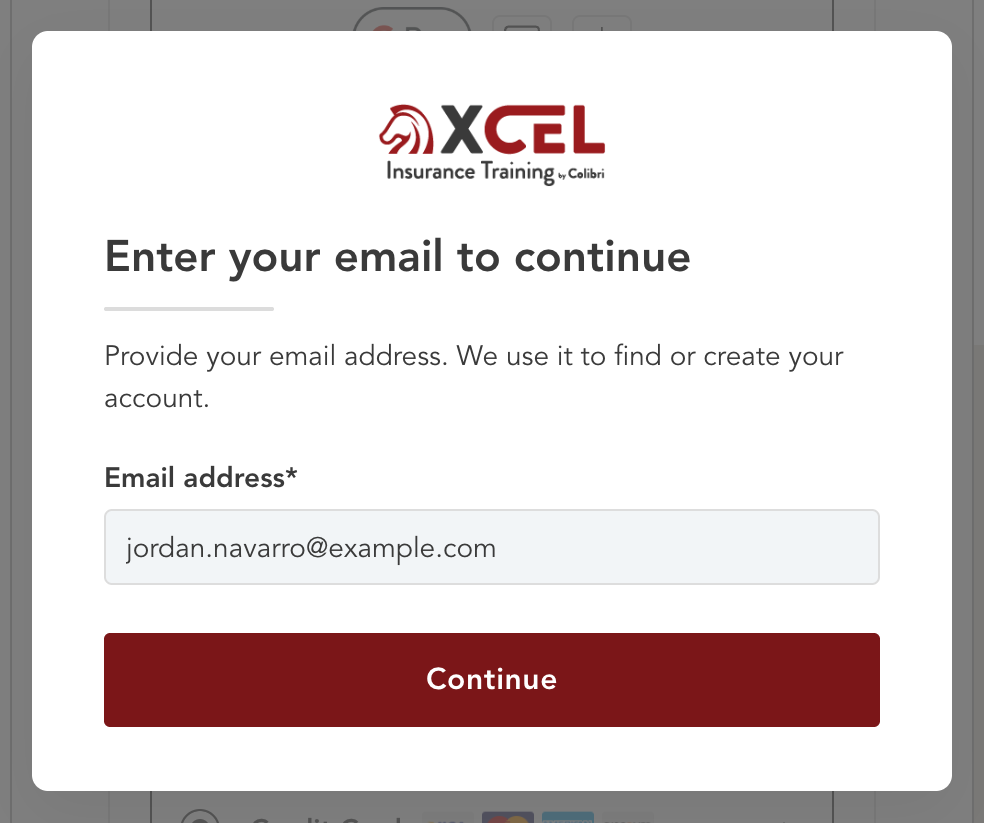
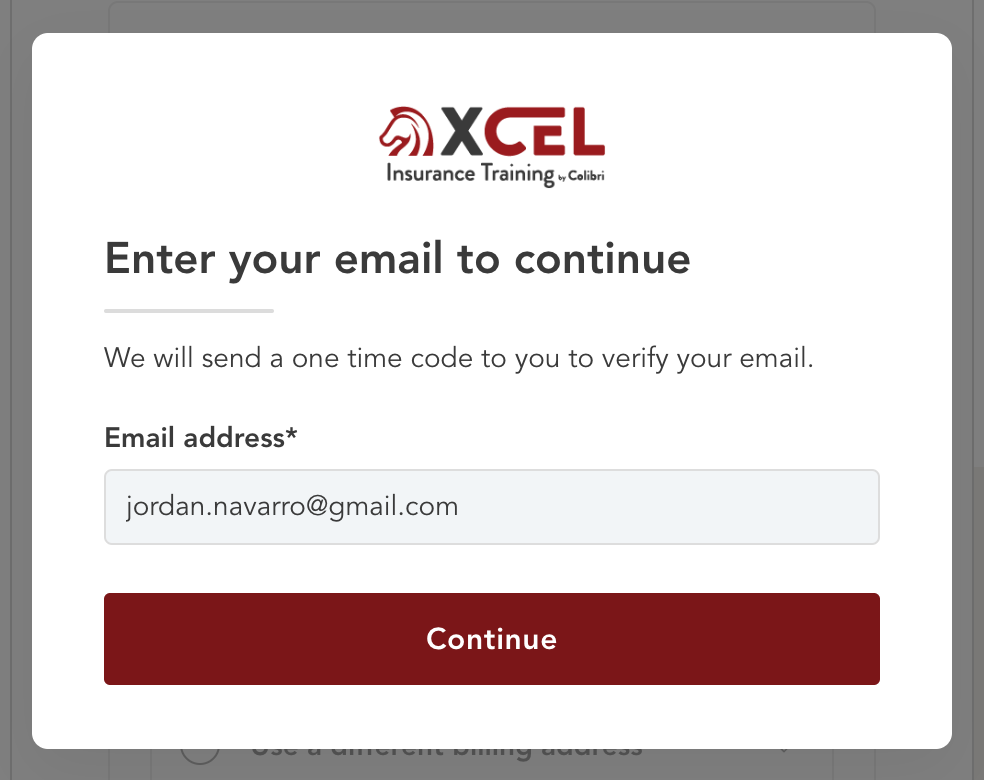
feat(invite-v3): email step before the code; Direct Email log-in shows the address locked
Without an Atlas account, Direct Email no longer sends the code straight
away: Enter your email to continue comes first, filled with the invited
address, and the no-Atlas flows' line reads "We will send a one time code
to you to verify your email." With Atlas, Log in to continue shows the
address in a locked field and says "Welcome back, Jordan! Sign in to
finish checking out." Checkout Modals handoff updated with the two new
states, re-shot pictures and an open question on the email step's copy.

diff --git a/src/data/handoffs/xcel-invite-v3-checkout-modals.ts b/src/data/handoffs/xcel-invite-v3-checkout-modals.ts
@@ -24,7 +24,7 @@ const feature: PrototypeFeature = {
   devStatus: 'not-ready',
   surface: 'invite',
   owner: 'Afsana',
-  lastUpdated: '2026-11-12T15:31:55Z',
+  lastUpdated: '2026-11-13T13:48:15Z',
   accent: 'gold',
   icon: 'flag',
   brands: ['xcel'],
@@ -45,8 +45,8 @@ const feature: PrototypeFeature = {
       to: '/end-to-end-demo/checkout?demo=1&ff=invite-flow-version:v3,invite-v3-model:b2b,invite-v3-flow-b2b:qr-atlas-login',
     },
     {
-      label: 'Direct Email — the code with the address supplied',
-      note: 'The partner’s invitation supplied the address, so the check opens on the code with no email step and no Use a different email.',
+      label: 'Direct Email, no Atlas — the email step, pre-filled, then the code',
+      note: 'The partner’s invitation supplied the address: Enter your email to continue opens filled with it, and Continue sends the code. No Use a different email on the code.',
       to: '/end-to-end-demo/checkout?demo=1&ff=invite-flow-version:v3,invite-v3-model:b2b,invite-v3-flow-b2b:direct-email,invite-v3-email-account:no-atlas',
     },
     {
@@ -80,12 +80,13 @@ const feature: PrototypeFeature = {
         order: 1,
         name: 'Enter your email to continue',
         tabLabel: 'Enter your email',
-        location: 'Over the checkout, on every flow except Direct Email. src/components/e2e/VerifyEmailModalV3.tsx — the email step.',
+        location: 'Over the checkout, on every flow except Direct Email with an Atlas account (that one opens on Log in to continue). src/components/e2e/VerifyEmailModalV3.tsx — the email step.',
         summary:
-          'The XCEL logo, "Enter your email to continue", "Provide your email address. We use it to find or create your account.", one email field and Continue. The email decides what comes next: Log in to continue if it has an Atlas account, the one-time code if it does not.',
+          'The XCEL logo, "Enter your email to continue", a line under it, one email field and Continue. The email decides what comes next: Log in to continue if it has an Atlas account, the one-time code if it does not. Where the code comes next the line reads "We will send a one time code to you to verify your email."; on the Has Atlas flows it reads "Provide your email address. We use it to find or create your account." No code is sent until Continue.',
         variants: [
           { name: 'Empty', when: 'On open. Continue is off.' },
           { name: 'Valid email', when: 'The field holds something shaped like an email address. Continue turns on.' },
+          { name: 'Pre-filled (Direct Email)', when: 'Direct Email when the address has no Atlas account. The field opens holding the address the partner supplied, and Continue is on.', why: 'The learner sees where the code is going before it is sent, instead of a code arriving unannounced.' },
         ],
         ctas: [
           { name: 'Continue', does: 'Off until the email is valid. Then opens Log in to continue if the email has an Atlas account, otherwise Enter your one-time code.' },
@@ -126,7 +127,7 @@ const feature: PrototypeFeature = {
         order: 2,
         name: 'Enter your one-time code',
         tabLabel: 'One-time code',
-        location: 'Over the checkout, after Enter your email when the email has no Atlas account — or first, on Direct Email. src/components/e2e/VerifyEmailModalV3.tsx — CodeStep.',
+        location: 'Over the checkout, after Enter your email when the email has no Atlas account — Direct Email included. src/components/e2e/VerifyEmailModalV3.tsx — CodeStep.',
         summary:
           'The XCEL logo, "Enter your one-time code", and "To verify your email address, enter the 6-digit code we sent to [email, bold]. Be sure to check your spam or junk folders. This code will expire in 10 minutes." Six digit boxes, Confirm, and under it the resend countdown.',
         variants: [
@@ -190,12 +191,13 @@ const feature: PrototypeFeature = {
         order: 3,
         name: 'Log in to continue',
         tabLabel: 'Log in',
-        location: 'Over the checkout, after Enter your email when the email has an Atlas account — or first, on Direct Email. src/components/e2e/VerifyEmailModalV3.tsx — LoginStep.',
+        location: 'Over the checkout, after Enter your email when the email has an Atlas account — or first, on Direct Email, with the address pre-filled. src/components/e2e/VerifyEmailModalV3.tsx — LoginStep.',
         summary:
-          'The XCEL logo, "Log in to continue", and "Welcome back, [first name]! Sign in to [email, bold] to finish checking out." The address is in the sentence, not a field. A password field with show and hide, Forgot password?, and Log in. Forgot password? turns the modal into Check your email; following the link opens Reset your password.',
+          'The XCEL logo, "Log in to continue", and "Welcome back, [first name]! Sign in to [email, bold] to finish checking out." — the address in the sentence. On Direct Email the line is "Welcome back, [first name]! Sign in to finish checking out." and the address is in a locked Email address field above the password, pre-filled from the invitation. A password field with show and hide, Forgot password?, and Log in. Forgot password? turns the modal into Check your email; following the link opens Reset your password.',
         variants: [
           { name: 'Empty password', when: 'On open. Log in is off.' },
           { name: 'Password entered', when: 'Anything in the field. Log in turns on.' },
+          { name: 'Direct Email — address locked', when: 'Direct Email with an Atlas account. A grey, disabled Email address field with a lock icon holds the invited address; the line drops the address.', why: 'The partner supplied the address, so it is shown as a field the learner can see but not change — the same lock the checkout uses.' },
           { name: 'Wrong password', when: 'Log in with a password that does not match. Red text under the field — "We couldn’t log you in. Please try again." — and a red stroke along the field’s bottom. Editing the password clears both.' },
           { name: 'Check your email', when: 'Forgot password? was clicked. The modal becomes "Check your email": "We sent a password reset link to [email, bold]. Follow the instructions in the email to reset your password. Be sure to check your spam or junk folders." Resend link (primary) over Back to sign in (secondary).' },
           { name: 'Resend link waiting', when: 'Check your email, straight after a link is sent and after every resend. Resend link is disabled until the system allows another request.', why: 'A link has just gone out; a second request before the first can arrive only multiplies the emails.' },
@@ -463,6 +465,12 @@ const feature: PrototypeFeature = {
         {
           question: 'Should Check your email say how long the reset link is valid (for example, 1 hour)?',
           decision: 'Open. The code step states its expiry ("This code will expire in 10 minutes."), and it tells a learner who finds the email later why the link stopped working. The expiry itself is the system’s; the copy follows it.',
+          status: 'Needs weigh-in',
+          owner: 'Design and Engineering',
+        },
+        {
+          question: 'Does Enter your email to continue promise a code before the email is known?',
+          decision: 'Open. In the prototype each flow already knows whether the email has an Atlas account, so the no-Atlas flows say "We will send a one time code to you to verify your email." and the Has Atlas flows keep "Provide your email address. We use it to find or create your account." In the product the account is only found after Continue, except on Direct Email. One line has to cover both outcomes, or the line changes once the email is checked.',
           status: 'Needs weigh-in',
           owner: 'Design and Engineering',
         },

diff --git a/src/components/e2e/VerifyEmailModalV3.tsx b/src/components/e2e/VerifyEmailModalV3.tsx
@@ -74,8 +74,12 @@ export function VerifyEmailModalV3({
    *  no "Use a different email": the partner named this one. */
   suppliedEmail?: string
 }) {
+  /* A supplied address with Atlas goes straight to Log in. Without Atlas it
+     no longer goes straight to the code (2026-11-13, Afsana): the email step
+     comes first, filled with the invitation's address, so no code is sent
+     before the learner says where. */
   const [step, setStep] = useState<'email' | 'code' | 'login' | 'signing-in'>(() =>
-    suppliedEmail && second !== 'none' ? second : 'email',
+    suppliedEmail && second === 'login' ? 'login' : 'email',
   )
   const layer = useV3DialogLayer()
   const [email, setEmail] = useState(suppliedEmail ?? '')
@@ -129,7 +133,11 @@ export function VerifyEmailModalV3({
               </h2>
               <div aria-hidden style={RULE} />
               <p id="verify-email-lead" style={LEAD}>
-                Provide your email address. We use it to find or create your account.
+                {/* No Atlas: the code is what comes next, so say so
+                    (2026-11-13, Afsana). */}
+                {second === 'code'
+                  ? 'We will send a one time code to you to verify your email.'
+                  : 'Provide your email address. We use it to find or create your account.'}
               </p>
             </div>
 
@@ -181,7 +189,7 @@ export function VerifyEmailModalV3({
         ) : step === 'login' ? (
           /* Log in always holds on "Signing you in" (2026-11-05, Afsana),
              whether or not the flow's `signsIn` does. */
-          <LoginStep email={email} onLoggedIn={() => setStep('signing-in')} />
+          <LoginStep email={email} supplied={Boolean(suppliedEmail)} onLoggedIn={() => setStep('signing-in')} />
         ) : (
           <div style={SIGNING_IN}>
             <img src="/brand/xcel-logo.webp" alt="XCEL Insurance Training by Colibri" style={CODE_LOGO} />
@@ -399,7 +407,17 @@ function formatCountdown(seconds: number): string {
 /** "Log in to continue" — the Has Atlas log-in widget (`login-1`, `login-2`).
  *  The address is the one just given, locked; Log in stays off until there
  *  is a password. Any password is accepted, as in the file. */
-function LoginStep({ email, onLoggedIn }: { email: string; onLoggedIn: () => void }) {
+function LoginStep({
+  email,
+  supplied,
+  onLoggedIn,
+}: {
+  email: string
+  /** Direct Email: the partner supplied the address, and Log in shows it in a
+   *  locked field (2026-11-13, Afsana). */
+  supplied: boolean
+  onLoggedIn: () => void
+}) {
   const [password, setPassword] = useState('')
   const [shown, setShown] = useState(false)
   /* A wrong password — 2026-11-05, Afsana, as the code step's wrong code.
@@ -509,13 +527,44 @@ function LoginStep({ email, onLoggedIn }: { email: string; onLoggedIn: () => voi
         ) : null}
         {/* The address in the sentence, not a field (2026-11-03, Afsana) — it
             was a locked email field above the password. */}
-        <p id="verify-email-lead" style={LEAD}>
-          Welcome back, {E2E_LEARNER_FIRST}! Sign in to <strong style={{ fontWeight: 800 }}>{email.trim()}</strong>{' '}
-          to finish checking out.
-        </p>
+        {supplied ? (
+          <p id="verify-email-lead" style={LEAD}>
+            Welcome back, {E2E_LEARNER_FIRST}! Sign in to finish checking out.
+          </p>
+        ) : (
+          <p id="verify-email-lead" style={LEAD}>
+            Welcome back, {E2E_LEARNER_FIRST}! Sign in to <strong style={{ fontWeight: 800 }}>{email.trim()}</strong>{' '}
+            to finish checking out.
+          </p>
+        )}
       </div>
 
       <div style={{ display: 'flex', flexDirection: 'column', gap: 16 }}>
+        {/* Direct Email's address, pre-filled and locked as the checkout locks
+            it (2026-11-13, Afsana) — the partner named it, so it is not
+            changed here. A disabled input, so it reads as the form's field. */}
+        {supplied ? (
+          <label htmlFor="login-email" style={FIELD_GROUP}>
+            <span style={FIELD_LABEL}>Email address</span>
+            <span style={{ position: 'relative', display: 'block' }}>
+              <input
+                id="login-email"
+                type="email"
+                value={email.trim()}
+                disabled
+                readOnly
+                style={{ ...FIELD, ...FIELD_LOCKED }}
+              />
+              <img
+                src="/brand/confirmation/lock.svg"
+                alt="Locked"
+                width={16}
+                height={16}
+                style={{ position: 'absolute', right: 11, top: 11, display: 'block' }}
+              />
+            </span>
+          </label>
+        ) : null}
         <div style={{ display: 'flex', flexDirection: 'column', gap: 6 }}>
           <label htmlFor="login-password" style={FIELD_GROUP}>
             <span style={FIELD_LABEL}>
@@ -800,6 +849,14 @@ const FIELD: CSSProperties = {
   fontSize: 14,
   color: 'var(--color-text-primary)',
   border: '1px solid var(--color-e2e-card-outline)',
+}
+
+/* The locked address — the checkout's locked email field. */
+const FIELD_LOCKED: CSSProperties = {
+  paddingRight: 36,
+  background: 'var(--color-e2e-form-locked-v3)',
+  color: 'var(--color-text-secondary)',
+  cursor: 'not-allowed',
 }
 
 /* Code resent — light green, the success scale's lightest fill. */

diff --git a/src/test/InviteFlowV3Screens.test.tsx b/src/test/InviteFlowV3Screens.test.tsx
@@ -140,20 +140,27 @@ describe('Invite Flow V3 — the Direct Email invitation', () => {
     expect(within(letter).getByRole('button', { name: 'View invitation' })).toHaveClass('cre-e2e-cta')
   })
 
-  it('after Purchase, sends a code to the supplied address when it has no Atlas', async () => {
+  it('after Purchase, asks for the email first when the supplied address has no Atlas, then sends the code', async () => {
     renderAt(CHECKOUT, `${DIRECT},invite-v3-email-account:no-atlas`)
+    /* No code goes out until the learner says where (2026-11-13). */
+    expect(screen.queryByRole('dialog', { name: 'Enter your one-time code' })).not.toBeInTheDocument()
+    const ask = screen.getByRole('dialog', { name: 'Enter your email to continue' })
+    expect(ask).toHaveAccessibleDescription('We will send a one time code to you to verify your email.')
+    /* Filled with the invitation's address. */
+    expect(within(ask).getByLabelText(/Email address/)).toHaveValue(E2E_LEARNER_EMAIL)
+    await userEvent.click(within(ask).getByRole('button', { name: 'Continue' }))
     const dialog = screen.getByRole('dialog', { name: 'Enter your one-time code' })
     expect(dialog).toHaveTextContent(E2E_LEARNER_EMAIL)
-    /* Never asks for the address, and there is no other to use. */
-    expect(screen.queryByRole('dialog', { name: 'Enter your email to continue' })).not.toBeInTheDocument()
+    /* The partner named the address, so there is no other to go back for. */
     expect(within(dialog).queryByRole('button', { name: 'Use a different email' })).not.toBeInTheDocument()
   })
 
   it('leaves the checkout’s email plain until the check is done, then locks it', async () => {
     renderAt(CHECKOUT, `${DIRECT},invite-v3-email-account:no-atlas`)
-    /* Behind the code: no lock, no grey, no address. */
+    /* Behind the check: no lock, no grey, no address. */
     expect(screen.queryByAltText('Locked')).not.toBeInTheDocument()
-    expect(screen.queryByDisplayValue(E2E_LEARNER_EMAIL)).not.toBeInTheDocument()
+    expect(screen.queryAllByDisplayValue(E2E_LEARNER_EMAIL).filter((el) => el.closest('[role="dialog"]') === null)).toHaveLength(0)
+    await userEvent.click(screen.getByRole('button', { name: 'Continue' }))
     const dialog = screen.getByRole('dialog', { name: 'Enter your one-time code' })
     await userEvent.type(within(dialog).getByLabelText('Digit 1 of 6'), '111111')
     await userEvent.click(within(dialog).getByRole('button', { name: 'Confirm' }))
@@ -179,7 +186,12 @@ describe('Invite Flow V3 — the Direct Email invitation', () => {
   it('after Purchase, asks the learner to log in when the address has Atlas', () => {
     renderAt(CHECKOUT, `${DIRECT},invite-v3-email-account:atlas`)
     const dialog = screen.getByRole('dialog', { name: 'Log in to continue' })
-    expect(dialog).toHaveTextContent(E2E_LEARNER_EMAIL)
+    expect(dialog).toHaveAccessibleDescription('Welcome back, Jordan! Sign in to finish checking out.')
+    /* The supplied address, pre-filled and locked (2026-11-13). */
+    const field = within(dialog).getByLabelText('Email address')
+    expect(field).toHaveValue(E2E_LEARNER_EMAIL)
+    expect(field).toBeDisabled()
+    expect(within(dialog).getByAltText('Locked')).toBeInTheDocument()
     expect(screen.queryByRole('dialog', { name: 'Enter your one-time code' })).not.toBeInTheDocument()
   })
 })
@@ -188,7 +200,7 @@ describe('Invite Flow V3 — the email check', () => {
   it('asks for the email only, and keeps Continue off until it is an address', async () => {
     renderAt(CHECKOUT, `${V3_B2B},invite-v3-flow-b2b:qr-net-new`)
     const dialog = screen.getByRole('dialog', { name: 'Enter your email to continue' })
-    expect(dialog).toHaveAccessibleDescription('Provide your email address. We use it to find or create your account.')
+    expect(dialog).toHaveAccessibleDescription('We will send a one time code to you to verify your email.')
     expect(screen.queryByLabelText(/First name/)).not.toBeInTheDocument()
     /* The checkout behind says nothing about an address nobody has given yet. */
     expect(screen.queryByDisplayValue(/@/)).not.toBeInTheDocument()

diff --git a/src/data/inviteFlowsV3.ts b/src/data/inviteFlowsV3.ts
@@ -87,7 +87,7 @@ export const INVITE_FLOWS_V3: InviteFlowV3[] = [
     label: 'Direct Email',
     description: 'Partner invited them, address supplied. Locked at checkout.',
     base: 'b2b2c-email',
-    screens: ['email', 'pdp', ...CODE, 'checkout-1', ...CHECKOUT, 'placing', ...NEW_PASSWORD],
+    screens: ['email', 'pdp', ...VERIFY, ...CODE, 'checkout-1', ...CHECKOUT, 'placing', ...NEW_PASSWORD],
   },
   {
     id: 'qr-net-new',
@@ -205,9 +205,11 @@ export function verifiesEmailFirst(flow: InviteFlowV3): boolean {
   )
 }
 
-/** Did the partner supply the address? Direct Email's invitation names it, so
- *  the email check opens on its second step — the code or the log-in — with
- *  that address, never asking for it (2026-11-04, Afsana). */
+/** Did the partner supply the address? Direct Email's invitation names it.
+ *  With Atlas the check opens on Log in, the address locked in its field;
+ *  without, on the email step filled with it, so no code is sent until the
+ *  learner presses Continue (2026-11-13, Afsana — 2026-11-04 went straight
+ *  to the code). */
 export function suppliesEmailV3(flow: InviteFlowV3): boolean {
   return flow.screens.includes('email')
 }
@@ -311,7 +313,7 @@ export function directEmailFlowV3(flow: InviteFlowV3, email: V3EmailAccount): In
     screens:
       email === 'atlas'
         ? [...start, 'login-1', 'login-2', ...CHECKOUT, 'placing', 'ready']
-        : [...start, ...CODE, 'checkout-1', ...CHECKOUT, 'placing', ...NEW_PASSWORD],
+        : [...start, ...VERIFY, ...CODE, 'checkout-1', ...CHECKOUT, 'placing', ...NEW_PASSWORD],
   }
 }
 

diff --git a/src/components/prototype/inviteV3HandoffStateImages.ts b/src/components/prototype/inviteV3HandoffStateImages.ts
@@ -26,6 +26,7 @@ const STATE_IMAGES: Record<string, Record<string, string>> = {
   'v3-enter-email': {
     Empty: `${MODALS}/enter-email--empty.png`,
     'Valid email': `${MODALS}/enter-email--valid.png`,
+    'Pre-filled (Direct Email)': `${MODALS}/enter-email--prefilled.png`,
   },
   'v3-one-time-code': {
     Empty: `${MODALS}/one-time-code--empty.png`,
@@ -41,6 +42,7 @@ const STATE_IMAGES: Record<string, Record<string, string>> = {
   'v3-log-in': {
     'Empty password': `${MODALS}/log-in--empty.png`,
     'Password entered': `${MODALS}/log-in--entered.png`,
+    'Direct Email — address locked': `${MODALS}/log-in--direct-email.png`,
     'Wrong password': `${MODALS}/log-in--wrong.png`,
     'Check your email': `${MODALS}/log-in--check-email.png`,
     'Resend link waiting': `${MODALS}/log-in--resend-waiting.png`,
